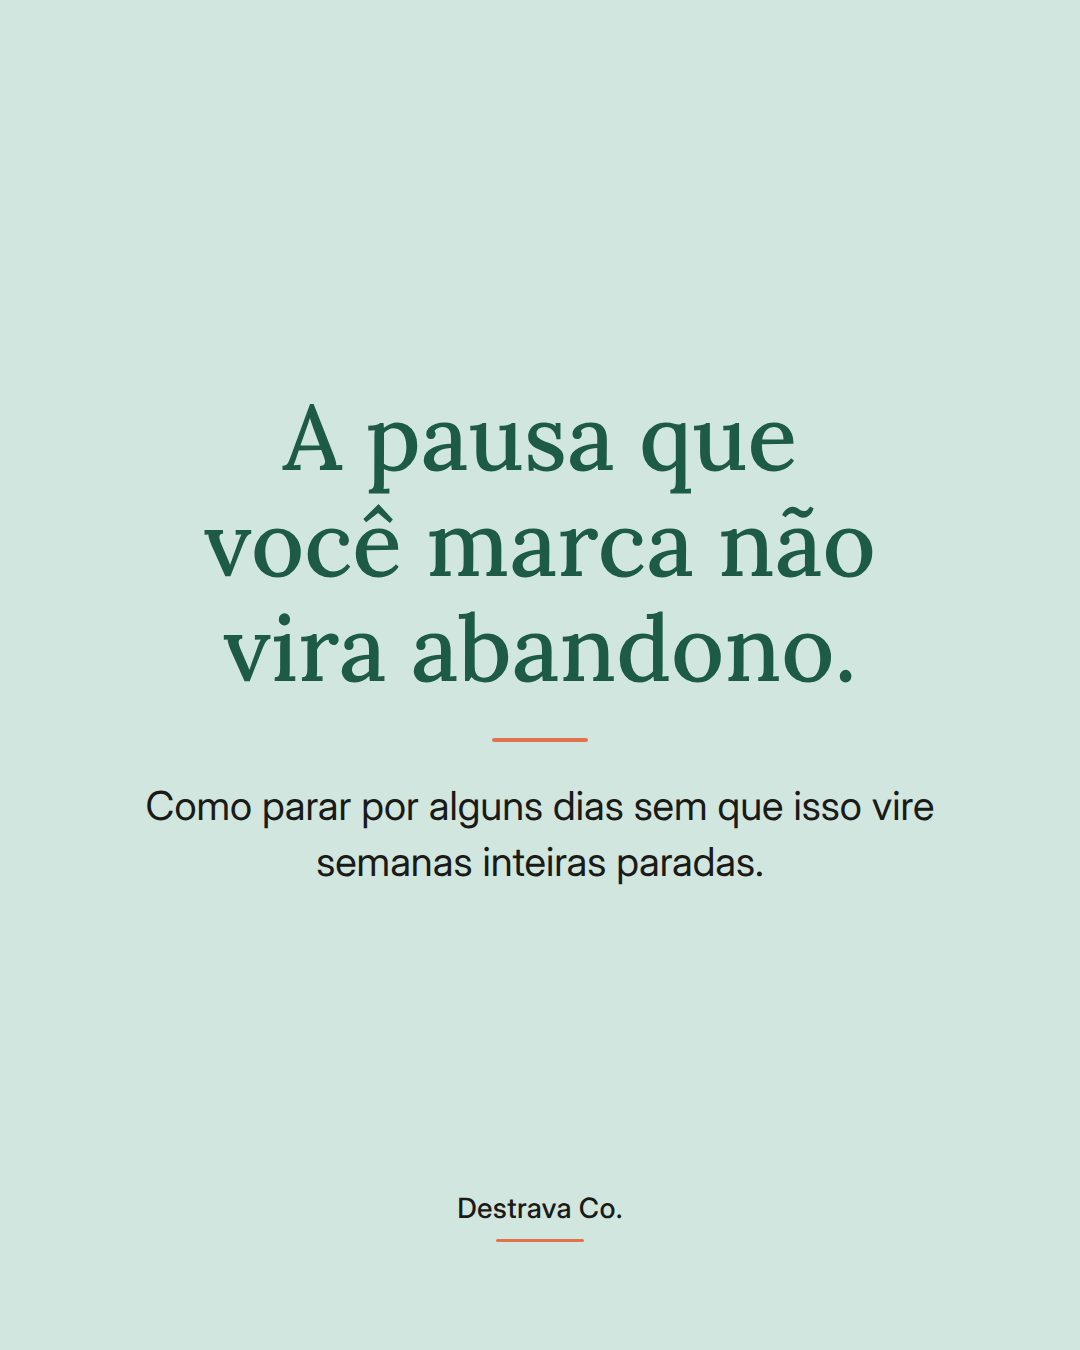
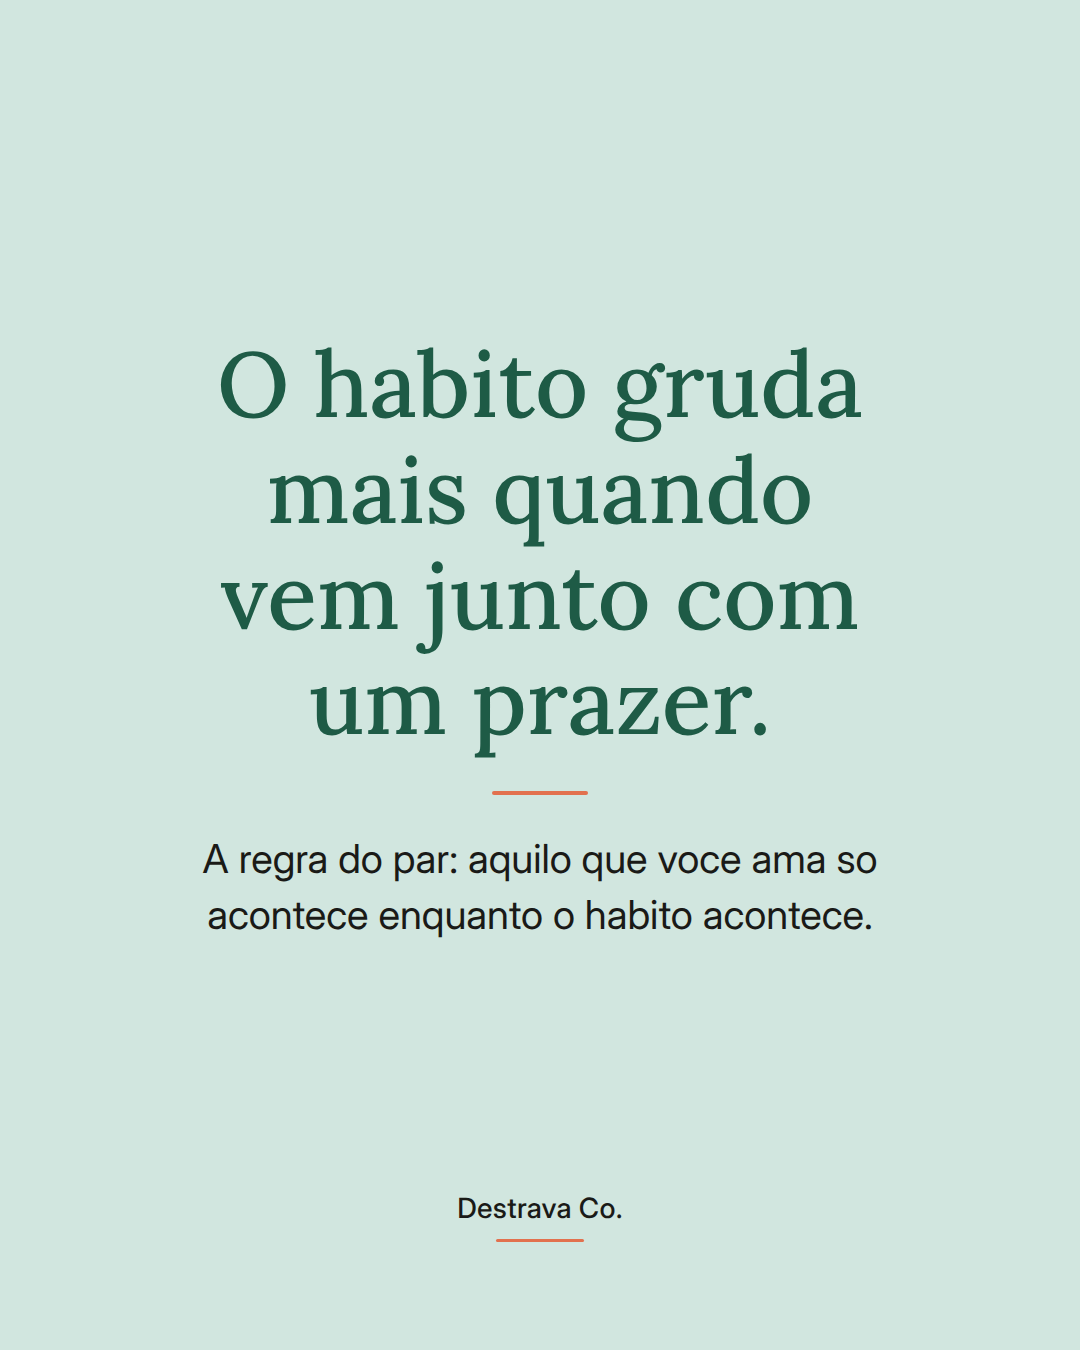
content: peças Instagram 2026_10_04

Changed region(s): [[0.1833, 0.2489, 0.825, 0.56], [0.1222, 0.5911, 0.8556, 0.7156]]

diff --git a/public/content/2026_10_04/index.html b/public/content/2026_10_04/index.html
@@ -19,24 +19,24 @@
 </head>
 <body>
 <h1>Corpo · capa B (wash3)</h1>
-<div class="meta">2026-10-04 · gerado em 2026-10-04T19:00:12 · sticker sugerido nos Stories: emoji slider</div>
+<div class="meta">2026-10-04 · gerado em 2026-10-04T19:00:26 · sticker sugerido nos Stories: emoji slider</div>
 <h2>Carrossel</h2>
-<div class="strip"><img src="2026_10_04_-_Carrossel_Corpo_01.png" alt="Lâmina de capa com fundo wash3 da linha Corpo e título em campo dizendo que a pausa marcada não vira abandono." title="2026_10_04_-_Carrossel_Corpo_01.png"><img src="2026_10_04_-_Carrossel_Corpo_02.png" alt="Lâmina de fundo wash1 bem claro com título no campo profundo explicando que pausa sem fim marcado se estica sozinha." title="2026_10_04_-_Carrossel_Corpo_02.png"><img src="2026_10_04_-_Carrossel_Corpo_03.png" alt="Lâmina de fundo wash1 bem claro com título no campo profundo e três passos para marcar uma pausa com data de volta." title="2026_10_04_-_Carrossel_Corpo_03.png"><img src="2026_10_04_-_Carrossel_Corpo_04.png" alt="Lâmina de fundo wash1 bem claro com título no campo profundo dizendo que o primeiro dia de volta deve ser leve." title="2026_10_04_-_Carrossel_Corpo_04.png"><img src="2026_10_04_-_Carrossel_Corpo_05.png" alt="Lâmina de CTA com fundo campo profundo, texto creme convidando a conhecer o Destrava 21 e botão no acento escrito LINK NA BIO." title="2026_10_04_-_Carrossel_Corpo_05.png"></div>
+<div class="strip"><img src="2026_10_04_-_Carrossel_Corpo_01.png" alt="Lamina de capa com fundo wash3 da linha Corpo e titulo em campo escuro dizendo que o habito gruda mais quando vem junto com um prazer." title="2026_10_04_-_Carrossel_Corpo_01.png"><img src="2026_10_04_-_Carrossel_Corpo_02.png" alt="Lamina de miolo com fundo wash1 bem claro e titulo em campo profundo explicando que a vontade cansa mas o prazer sustenta o habito." title="2026_10_04_-_Carrossel_Corpo_02.png"><img src="2026_10_04_-_Carrossel_Corpo_03.png" alt="Lamina de miolo com fundo wash1 bem claro, titulo em campo profundo e tres exemplos de pares entre prazer e habito." title="2026_10_04_-_Carrossel_Corpo_03.png"><img src="2026_10_04_-_Carrossel_Corpo_04.png" alt="Lamina de miolo com fundo wash1 bem claro e titulo em campo profundo sobre fazer a versao curta quando o par nao acontecer." title="2026_10_04_-_Carrossel_Corpo_04.png"><img src="2026_10_04_-_Carrossel_Corpo_05.png" alt="Lamina final com fundo campo profundo, texto creme convidando pro Destrava 21 e botao no tom de acento." title="2026_10_04_-_Carrossel_Corpo_05.png"></div>
 <h2>Stories</h2>
-<div class="strip"><img class="story" src="2026_10_04_-_Stories_Corpo_01.png" alt="Story com fundo wash3 da linha Corpo e título em campo sobre pausa com data de volta, convidando a deslizar pro feed." title="2026_10_04_-_Stories_Corpo_01.png"><img class="story" src="2026_10_04_-_Stories_Corpo_02.png" alt="Stories em fundo verde profundo apresentando o programa Destrava 21 Mulheres com o endereço da página em destaque no chip coral." title="2026_10_04_-_Stories_Corpo_02.png"></div>
+<div class="strip"><img class="story" src="2026_10_04_-_Stories_Corpo_01.png" alt="Lamina de Stories com fundo wash3 da linha Corpo e titulo em campo escuro convidando a ver o carrossel no feed." title="2026_10_04_-_Stories_Corpo_01.png"><img class="story" src="2026_10_04_-_Stories_Corpo_02.png" alt="Stories em fundo verde profundo apresentando o programa Destrava 21 Mulheres com o endereço da página em destaque no chip coral." title="2026_10_04_-_Stories_Corpo_02.png"></div>
 <div class="meta">1º · stories post do dia · <a href="2026_10_04_-_Stories_Corpo_01.png" download="2026_10_04_-_Stories_Corpo_01.png">⬇ baixar</a> · sticker de link → post do dia (permalink em publicado.json depois de publicar) · sticker extra sugerido: emoji slider</div><div class="meta">2º · stories oferta · <a href="2026_10_04_-_Stories_Corpo_02.png" download="2026_10_04_-_Stories_Corpo_02.png">⬇ baixar</a> · sticker de link → <a href="https://destravaco.com.br/d21-mulheres-inicial/">https://destravaco.com.br/d21-mulheres-inicial/</a></div>
 <div class="meta">Stories não vão pela API: baixe e poste no app colando o sticker de link.</div>
 <h2>Legenda</h2>
-<pre>Pausa marcada não é desistência: é o que impede a semana ruim de virar um mês parado.
+<pre>Habito que gruda e habito que vem com prazer junto.
 
-A maioria das retomadas trava porque a pausa aconteceu sem combinado. A gente some do hábito num dia corrido e, sem data de volta, o dia vira semana.
+A gente tenta sustentar tudo na base da forca de vontade, e no fim do dia ela ja esta gasta. Dai o alongamento, a caminhada e a pausa viram as primeiras coisas a cair.
 
-Tenta assim na próxima vez que a rotina apertar: defina até quando vai pausar, escolha o dia e a hora do retorno e deixe a versão mínima do hábito pronta pra esse dia. Cinco minutos já contam.
+A regra do par e simples: escolha algo que voce ama e combine que esse algo so acontece enquanto o habito acontece. A serie nova so no alongamento da sala. O podcast favorito so na caminhada. A playlist preferida so na arrumacao.
 
-E lembra: o primeiro dia de volta serve só pra reabrir a porta, não pra compensar nada.
+Em dia ruim, vale a versao curta. Cinco minutos com a mesma musica ja contam, porque o que sustenta a constancia e nao deixar o dia passar em branco.
 
-Salva pra lembrar na próxima semana caótica e manda pra uma amiga que anda se cobrando demais. Se quiser um caminho simples pra manter o hábito vivo, dá uma olhada no Destrava 21 pelo meu perfil.
+Salva pra lembrar quando a semana apertar e manda pra quem vive recomecando do zero. Se quiser um caminho pronto, o Destrava 21 esta ali no meu perfil.
 
-<span class="tags">#constancia #rotinacorrida #autocuidado #habitossaudaveis #mulheresreais</span></pre>
+<span class="tags">#constancia #habitossaudaveis #rotinacorrida #autocuidado #mulheresreais</span></pre>
 </body>
 </html>
